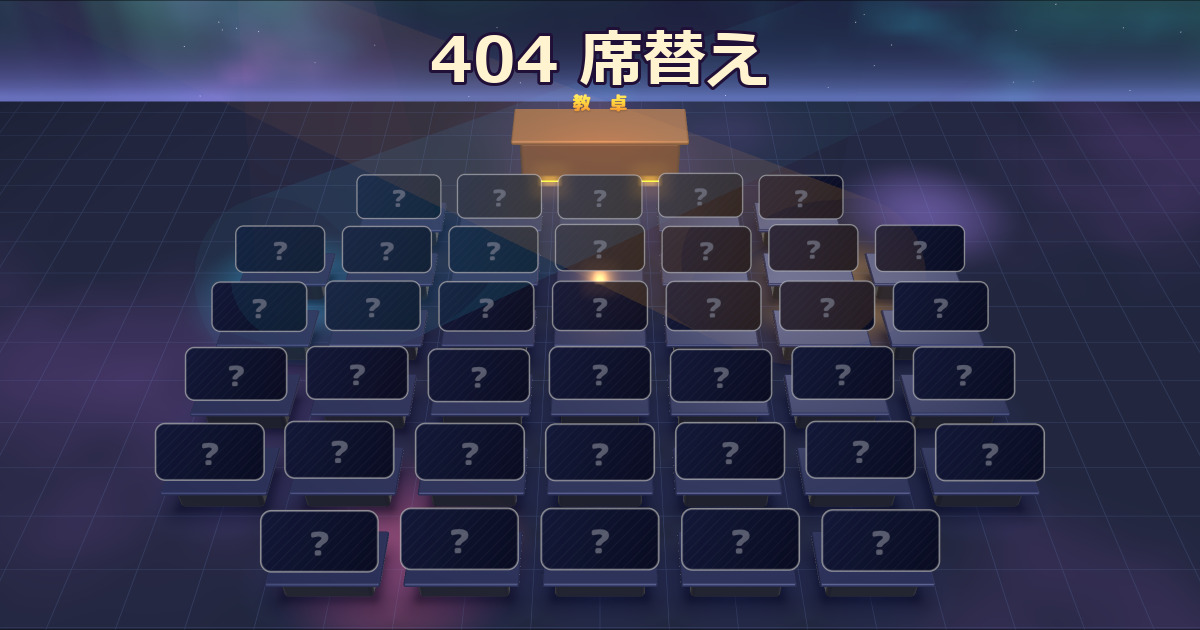
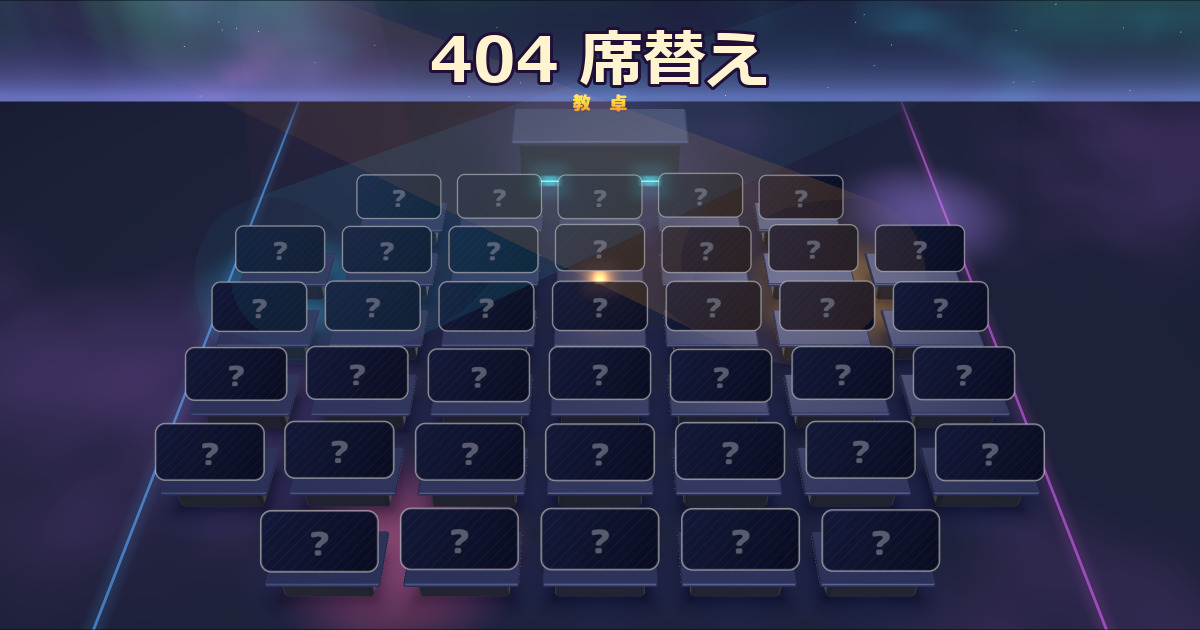
教室の床と教卓をネオンのステージに調整する

diff --git a/world.js b/world.js
@@ -327,27 +327,32 @@ void main(){
 }
 `;
 
-// 床: 暗いガラスの床、グリッド、スポットライトの光だまり
+// 床: 暗いステージ、両側の光のライン、スポットライトの光だまり
 const FLOOR_FRAG = GLSL_NOISE + `
 uniform float uTime, uDim; uniform vec3 uTint;
 uniform vec3 uSpot[4]; uniform vec3 uSpotCol[4]; uniform vec4 uFocus; uniform vec3 uFocusCol;
 uniform sampler2D uDeskShadows; uniform vec2 uDeskShadowScale;
+uniform float uSideLightX;
 varying vec3 vW;
 void main(){
   vec2 p = vW.xz;
-  vec3 col = vec3(.016,.020,.050);
+  vec3 col = vec3(.012,.015,.042);
   float n = fbm(vec3(p*.16, uTime*.03));
   col += vec3(.05,.02,.10) * smoothstep(.40,.85,n);
-  vec2 q = p / .9;
-  vec2 g = abs(fract(q - .5) - .5) / fwidth(q);
-  float line = 1.0 - min(min(g.x, g.y), 1.0);
-  col += vec3(.10,.17,.40) * line * .30 * exp(-length(p) * .06);
+  float shadow = texture2D(uDeskShadows, p * uDeskShadowScale + .5).r;
+  col *= 1.0 - shadow * .92;
+  vec3 spot = vec3(0.0);
   for (int i = 0; i < 4; i++){
     float d = length(p - uSpot[i].xy);
-    col += uSpotCol[i] * (1.0 - smoothstep(0.0, uSpot[i].z, d)) * .45;
+    spot += uSpotCol[i] * (1.0 - smoothstep(0.0, uSpot[i].z, d)) * .45;
   }
   col += uFocusCol * uFocus.w * (1.0 - smoothstep(0.0, 1.8, length(p - uFocus.xz))) * 1.4;
-  col *= 1.0 - texture2D(uDeskShadows, p * uDeskShadowScale + .5).r;
+  col += spot * (1.0 - shadow * .62);
+  float edge = abs(abs(p.x) - uSideLightX);
+  float line = 1.0 - smoothstep(.015, .015 + fwidth(p.x), edge);
+  float halo = 1.0 - smoothstep(.0, .22, edge);
+  vec3 neon = mix(vec3(.10,.40,1.0), vec3(.63,.12,.88), step(0.0, p.x));
+  col += neon * (line * .42 + halo * .045) * (1.0 - smoothstep(5.6, 9.0, abs(p.y + .6)));
   col *= (1.0 - smoothstep(9.0, 30.0, length(p)));
   gl_FragColor = vec4(col * uDim * uTint, 1.0);
 }
@@ -652,6 +657,7 @@ function buildRoom() {
         uFocusCol: { value: v3(1, .8, .4) },
         uDeskShadows: { value: shadows.texture },
         uDeskShadowScale: { value: shadows.scale },
+        uSideLightX: { value: cols * SX / 2 + .28 },
       },
     }));
   floor.rotation.x = -Math.PI / 2;
@@ -667,20 +673,20 @@ function buildRoom() {
   V.scene.add(wall);
   V.wallFrame = wall.material.uniforms.uWallFrame;
 
-  // 教卓: 木の台 + 金の文字
+  // 教卓: 青紫のステージ台 + 金の文字
   const podium = new THREE.Group();
-  const wood = new THREE.MeshStandardMaterial({ color: 0x6b3f1f, roughness: .45, metalness: .1 });
-  const woodTop = new THREE.MeshStandardMaterial({ color: 0x8a5a2b, roughness: .3, metalness: .15 });
-  const body = new THREE.Mesh(new V.RoundedBox(3.1, .95, 1.0, 4, .08), wood);
+  const podiumBody = new THREE.MeshStandardMaterial({ color: 0x151735, roughness: .42, metalness: .45 });
+  const podiumTop = new THREE.MeshStandardMaterial({ color: 0x293460, roughness: .32, metalness: .35 });
+  const body = new THREE.Mesh(new V.RoundedBox(3.1, .95, 1.0, 4, .08), podiumBody);
   body.position.y = .475;
-  const top = new THREE.Mesh(new V.RoundedBox(3.4, .1, 1.2, 4, .04), woodTop);
+  const top = new THREE.Mesh(new V.RoundedBox(3.4, .1, 1.2, 4, .04), podiumTop);
   top.position.y = 1.0;
   const label = new THREE.Mesh(new THREE.PlaneGeometry(2.4, .6),
     new THREE.MeshBasicMaterial({ map: canvasTex(podiumCanvas()), transparent: true, depthWrite: false, color: hdr(0xffffff, 1.3) }));
   label.position.set(0, 1.55, PODIUM_Z);
   V.podiumSign = label;
   V.scene.add(label);
-  const trim = new THREE.Mesh(new THREE.BoxGeometry(3.12, .03, 1.02), new THREE.MeshBasicMaterial({ color: hdr(HEX.gold, 2.2) }));
+  const trim = new THREE.Mesh(new THREE.BoxGeometry(3.12, .03, 1.02), new THREE.MeshBasicMaterial({ color: hdr(0x49e6f9, 2.2) }));
   trim.position.y = .06;
   podium.add(body, top, trim);
   podium.position.z = PODIUM_Z;
@@ -786,10 +792,14 @@ function buildDesks() {
   });
 }
 
+function deskGlowLight(light) {
+  return lerp(.75, 1, light);
+}
+
 function setDeskStrip(seat, color, intensity = 1) {
   const { strip, color: scratch } = V.deskParts;
   seat.stripColor.copy(color).multiplyScalar(intensity);
-  strip.setColorAt(seat.index, scratch.copy(seat.stripColor).multiplyScalar(seat.light));
+  strip.setColorAt(seat.index, scratch.copy(seat.stripColor).multiplyScalar(deskGlowLight(seat.light)));
   strip.instanceColor.needsUpdate = true;
 }
 
@@ -805,10 +815,10 @@ function seatLook(key) {
   const { glow, color } = V.deskParts;
   setDeskStrip(o, color.set(isHidden ? 0x8fa3ff : HEX[s.gender]), isHidden ? .35 : 2.4);
   o.glowColor.setHex(isHidden ? 0x6070ff : HEX[s.gender]).multiplyScalar(isHidden ? .08 : .32);
-  glow.setColorAt(o.index, color.copy(o.glowColor).multiplyScalar(o.light));
+  glow.setColorAt(o.index, color.copy(o.glowColor).multiplyScalar(deskGlowLight(o.light)));
   glow.instanceColor.needsUpdate = true;
   o.frame.visible = isLocked || isSelected;
-  if (o.frame.visible) o.frame.material.color.setHex(isLocked ? HEX.gold : 0x67e8f9).multiplyScalar(1.25 * o.light);
+  if (o.frame.visible) o.frame.material.color.setHex(isLocked ? HEX.gold : 0x67e8f9).multiplyScalar(1.25 * deskGlowLight(o.light));
   o.lock.visible = isLocked;
 }
 
@@ -1299,7 +1309,7 @@ function frame(now) {
 
 function addFrameHook(f) { (V.onFrame ||= new Set()).add(f); return () => V.onFrame.delete(f); }
 
-// 発表対象以外の机と名札を同じ明るさでフェードさせる。
+// 発表対象以外の机と名札を暗くし、文字とネオンの発光は明るめに保つ。
 function focusAnnouncement(keys = [], immediate = false) {
   const targets = new Set(keys);
   const current = V.announcementTargets;
@@ -1307,7 +1317,7 @@ function focusAnnouncement(keys = [], immediate = false) {
   V.announcementTargets = targets;
   const transition = V.announcementLight = [];
   for (const [key, seat] of Object.entries(V.seat)) {
-    const light = targets.size && !targets.has(key) ? .45 : 1;
+    const light = targets.size && !targets.has(key) ? .55 : 1;
     if (seat.light !== light) transition.push({ seat, from: seat.light, light });
   }
   if (!transition.length) return;
@@ -1316,15 +1326,17 @@ function focusAnnouncement(keys = [], immediate = false) {
     if (V.announcementLight !== transition) return;
     for (const { seat, from, light } of transition) {
       const previous = seat.light;
-      const k = seat.light = lerp(from, light, t);
-      seat.front.material.color.setScalar(PLATE_FRONT_LIGHT * k);
-      seat.back.material.color.setScalar(PLATE_BACK_LIGHT * k);
-      seat.lock.material.color.setScalar(k);
-      seat.frame.material.color.multiplyScalar(k / previous);
+      const k = seat.light = t === 1 ? light : lerp(from, light, t);
+      const nameLight = lerp(.5, 1, k);
+      const glowLight = deskGlowLight(k);
+      seat.front.material.color.setScalar(PLATE_FRONT_LIGHT * nameLight);
+      seat.back.material.color.setScalar(PLATE_BACK_LIGHT * nameLight);
+      seat.lock.material.color.setScalar(nameLight);
+      seat.frame.material.color.multiplyScalar(glowLight / deskGlowLight(previous));
       ped.setColorAt(seat.index, color.setScalar(k));
       top.setColorAt(seat.index, color);
-      strip.setColorAt(seat.index, color.copy(seat.stripColor).multiplyScalar(k));
-      glow.setColorAt(seat.index, color.copy(seat.glowColor).multiplyScalar(k));
+      strip.setColorAt(seat.index, color.copy(seat.stripColor).multiplyScalar(glowLight));
+      glow.setColorAt(seat.index, color.copy(seat.glowColor).multiplyScalar(glowLight));
     }
     ped.instanceColor.needsUpdate = top.instanceColor.needsUpdate = true;
     strip.instanceColor.needsUpdate = glow.instanceColor.needsUpdate = true;

diff --git a/sw.js b/sw.js
@@ -1,7 +1,7 @@
 // オフラインでも開けるようにするキャッシュ
 // ・このサイトのファイル: ネットを優先 (更新がすぐ反映される)。つながらないときはキャッシュ
 // ・three.js やフォントなど外部のファイル: キャッシュを優先
-const CACHE = "sekigae-v42";
+const CACHE = "sekigae-v43";
 // 音声はアプリが必要なタイミングで読み込むので、事前キャッシュには含めない。
 const CORE = [
   "./", "index.html", "style.css", "students.js", "seat-mix.js", "sound.js", "app.js", "world.js", "models.js", "mc-model.js", "mc-suit.js", "mc.js", "groove.js", "extras.js", "frontrow.js", "pair.js", "show.js",
